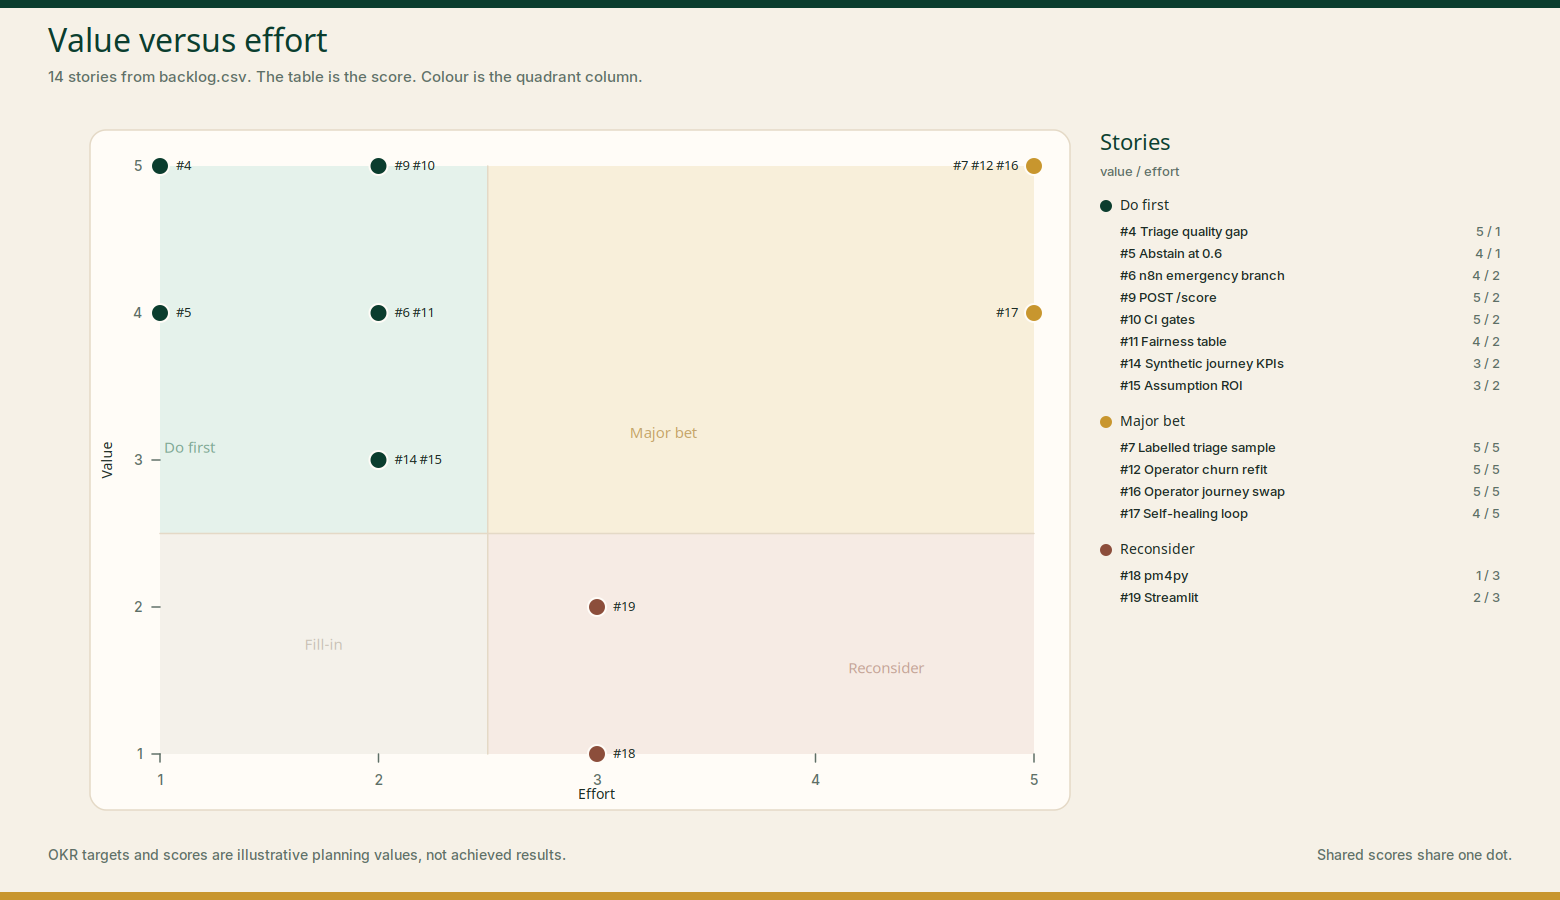
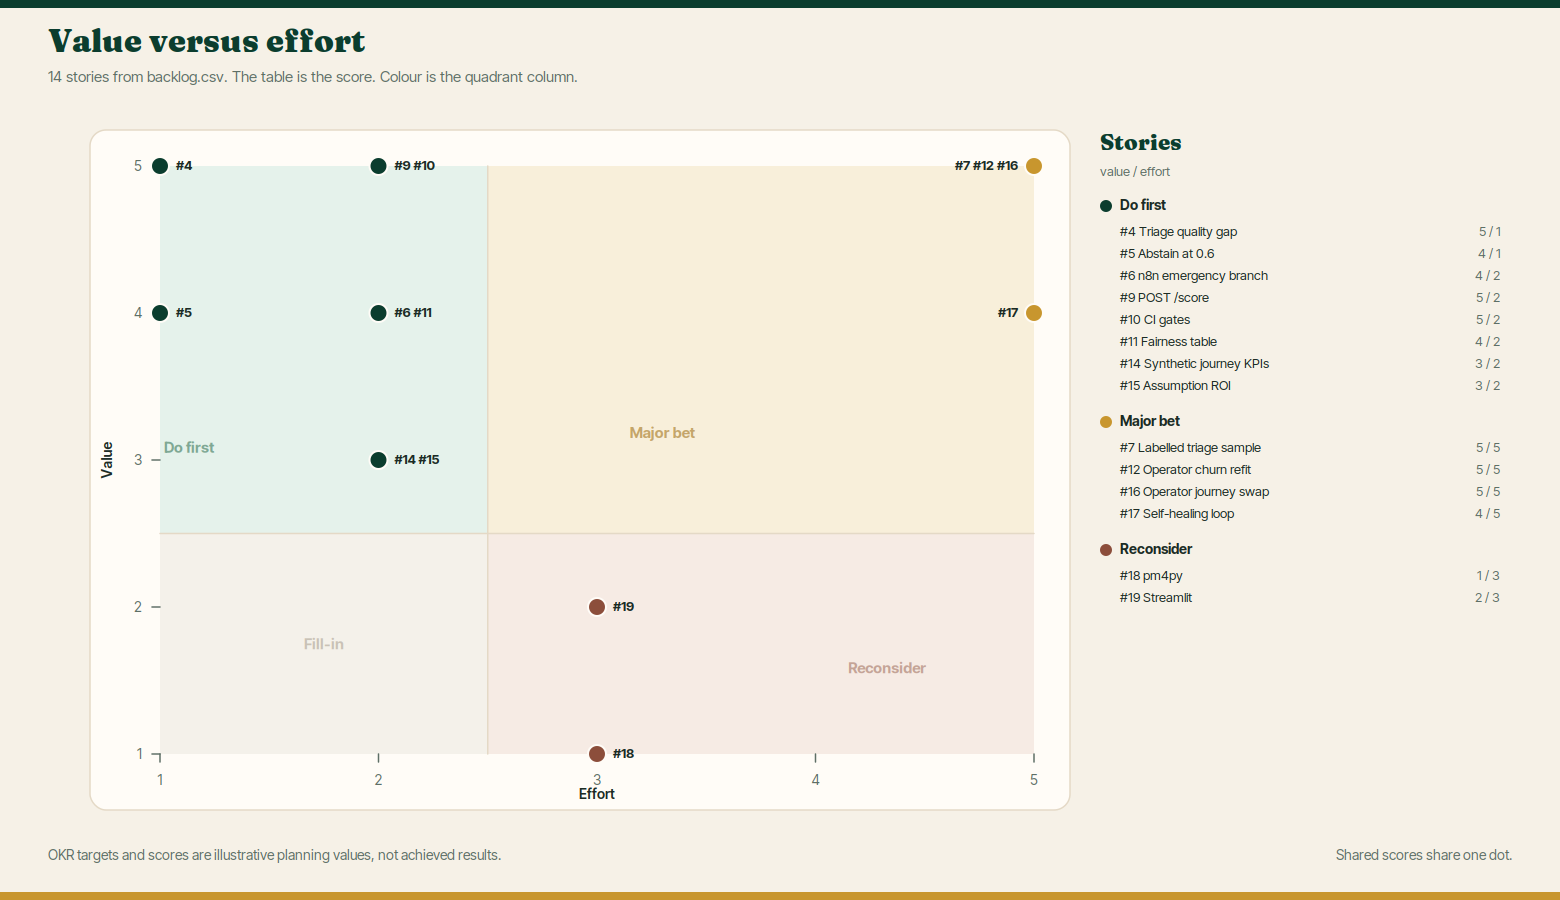
Use Fraunces Black and Inter Tight on the story figures
Install the faces where fontconfig can see them, and show the IBM holdout ROC-AUC and lift on the result panel.

diff --git a/scripts/render_story.py b/scripts/render_story.py
@@ -1,21 +1,58 @@
 #!/usr/bin/env python3
 """Draw the story figures in assets/ from backlog.csv and the README.
 
-Needs Pillow and CairoSVG, plus Fraunces and Inter Tight (downloaded on first run).
-Does not invent metrics. story_facts.py is the only source of labels and numbers.
+CairoSVG draws text with Cairo's select_font_face, which asks fontconfig for
+the family name and ignores @font-face. This script installs Fraunces Black
+and Inter Tight into ~/.fonts and refreshes the font cache before rasterizing.
+
+Needs Pillow, CairoSVG, fontTools, and fc-cache. story_facts.py is the only
+source of labels and numbers.
 """
 
+import shutil
+import subprocess
 import urllib.request
 from pathlib import Path
 
 import cairosvg
+from fontTools.ttLib import TTFont
 from PIL import Image, ImageFont
 
 import story_facts as facts
 
 ROOT = Path(__file__).resolve().parents[1]
 ASSETS = ROOT / "assets"
-FONT_DIR = Path("/tmp/fonts")
+FONT_SRC = Path("/tmp/digital-care-fontsrc")
+FONT_DIR = Path.home() / ".fonts" / "digital-care"
+
+# Logical face -> (installed filename, svg family, svg weight, source url).
+# Weight 400 stays regular in Cairo. Weight 700 selects the bold face.
+FONTS = {
+    "Fraunces": (
+        "Fraunces-Black.ttf",
+        "Fraunces",
+        "700",
+        "https://cdn.jsdelivr.net/fontsource/fonts/fraunces@5.2.5/latin-900-normal.ttf",
+    ),
+    "Inter": (
+        "InterTight-Regular.ttf",
+        "Inter Tight",
+        "400",
+        "https://cdn.jsdelivr.net/fontsource/fonts/inter-tight@5.2.5/latin-400-normal.ttf",
+    ),
+    "InterSemi": (
+        "InterTight-SemiBold.ttf",
+        "Inter Tight SemiBold",
+        "400",
+        "https://cdn.jsdelivr.net/fontsource/fonts/inter-tight@5.2.5/latin-600-normal.ttf",
+    ),
+    "InterBold": (
+        "InterTight-Bold.ttf",
+        "Inter Tight",
+        "700",
+        "https://cdn.jsdelivr.net/fontsource/fonts/inter-tight@5.2.5/latin-700-normal.ttf",
+    ),
+}
 
 DEEP = "#0B3D2E"
 DEEP_MID = "#1B6B4A"
@@ -29,25 +66,6 @@ LINE = "#E4D9C6"
 SOFT = "#E7F2EC"
 SOFT_GOLD = "#F8F1DE"
 PALE = "#F3EFE6"
-
-FONTS = {
-    "Fraunces": (
-        "fraunces-700.ttf",
-        "https://cdn.jsdelivr.net/fontsource/fonts/fraunces@5.2.5/latin-700-normal.ttf",
-    ),
-    "Inter": (
-        "intertight-500.ttf",
-        "https://cdn.jsdelivr.net/fontsource/fonts/inter-tight@5.2.5/latin-500-normal.ttf",
-    ),
-    "InterSemi": (
-        "intertight-600.ttf",
-        "https://cdn.jsdelivr.net/fontsource/fonts/inter-tight@5.2.5/latin-600-normal.ttf",
-    ),
-    "InterBold": (
-        "intertight-700.ttf",
-        "https://cdn.jsdelivr.net/fontsource/fonts/inter-tight@5.2.5/latin-700-normal.ttf",
-    ),
-}
 
 HORIZON_COLOR = {"NOW": DEEP, "NEXT": DEEP_MID, "LATER": GOLD}
 QUADRANT_FILL = {
@@ -67,14 +85,54 @@ DOT = {"do-first": DEEP, "major-bet": GOLD, "reconsider": "#8C4E3B"}
 _FACES = {}
 
 
+def rewrite_fraunces(source, dest):
+    """Publish Fraunces Black as family Fraunces, style Bold, so Cairo's bold lookup hits it."""
+    font = TTFont(source)
+    name = font["name"]
+    platforms = {(rec.platformID, rec.platEncID, rec.langID) for rec in name.names}
+    labels = {
+        1: "Fraunces",
+        2: "Bold",
+        4: "Fraunces Bold",
+        6: "Fraunces-Bold",
+        16: "Fraunces",
+        17: "Bold",
+    }
+    for platform, encoding, language in platforms:
+        for name_id, value in labels.items():
+            name.setName(value, name_id, platform, encoding, language)
+    os2 = font["OS/2"]
+    os2.usWeightClass = 900
+    os2.fsSelection = (os2.fsSelection | 0x20) & ~0x40
+    font["head"].macStyle |= 0x01
+    font.save(dest)
+
+
 def ensure_fonts():
+    FONT_SRC.mkdir(parents=True, exist_ok=True)
     FONT_DIR.mkdir(parents=True, exist_ok=True)
     paths = {}
-    for family, (filename, url) in FONTS.items():
-        path = FONT_DIR / filename
-        if not path.exists() or path.stat().st_size < 1000:
-            urllib.request.urlretrieve(url, path)
-        paths[family] = path
+    for key, (filename, _family, _weight, url) in FONTS.items():
+        source = FONT_SRC / filename
+        if not source.exists() or source.stat().st_size < 1000:
+            urllib.request.urlretrieve(url, source)
+        dest = FONT_DIR / filename
+        if key == "Fraunces":
+            rewrite_fraunces(source, dest)
+        elif not dest.exists() or dest.stat().st_size < 1000:
+            shutil.copy(source, dest)
+        paths[key] = dest
+    subprocess.run(["fc-cache", "-f", str(FONT_DIR)], check=True)
+    expected = {
+        "Fraunces:weight=bold": paths["Fraunces"],
+        "Inter Tight": paths["Inter"],
+        "Inter Tight:weight=bold": paths["InterBold"],
+        "Inter Tight SemiBold": paths["InterSemi"],
+    }
+    for query, path in expected.items():
+        got = subprocess.check_output(["fc-match", "-f", "%{file}", query], text=True).strip()
+        if Path(got).resolve() != path.resolve():
+            raise SystemExit(f"fontconfig matched {got} for {query}, expected {path}")
     return paths
 
 
@@ -154,16 +212,22 @@ class Svg:
         pts = " ".join(f"{x},{y}" for x, y in points)
         self.add(f'<polygon points="{pts}" fill="{fill}"/>')
 
+    def _font_attrs(self, family):
+        _filename, css_family, weight, _url = FONTS[family]
+        return css_family, weight
+
     def text(self, x, y, value, family, size, fill, anchor="start"):
         check_prose(value)
+        css_family, weight = self._font_attrs(family)
         self.add(
-            f'<text x="{x}" y="{y}" font-family="{family}" font-size="{size}" fill="{fill}" text-anchor="{anchor}">{esc(value)}</text>'
+            f'<text x="{x}" y="{y}" font-family="{css_family}" font-weight="{weight}" font-size="{size}" fill="{fill}" text-anchor="{anchor}">{esc(value)}</text>'
         )
 
     def center(self, x, y, value, family, size, fill):
         check_prose(value)
+        css_family, weight = self._font_attrs(family)
         self.add(
-            f'<text x="{x}" y="{y}" font-family="{family}" font-size="{size}" fill="{fill}" text-anchor="middle" dominant-baseline="central">{esc(value)}</text>'
+            f'<text x="{x}" y="{y}" font-family="{css_family}" font-weight="{weight}" font-size="{size}" fill="{fill}" text-anchor="middle" dominant-baseline="central">{esc(value)}</text>'
         )
 
     def block(self, x, y, lines, family, size, fill, lh, anchor="start"):
@@ -195,15 +259,10 @@ class Svg:
         self.rect(0, self.h - 8, self.w, 8, GOLD)
 
     def render(self):
-        faces = "\n".join(
-            f"@font-face {{ font-family: '{family}'; src: url('file://{path}'); }}"
-            for family, path in self.paths.items()
-        )
         body = "\n".join(self.parts)
         return (
             f'<?xml version="1.0" encoding="UTF-8"?>'
             f'<svg xmlns="http://www.w3.org/2000/svg" width="{self.w}" height="{self.h}" viewBox="0 0 {self.w} {self.h}">'
-            f"<style>{faces}</style>"
             f'<rect width="{self.w}" height="{self.h}" fill="{CREAM}"/>'
             f"{body}</svg>"
         )
@@ -289,11 +348,16 @@ def hero(paths):
 
     # Result
     x = cards[2]
-    svg.text(x + 28, 108, "RESULT", "InterBold", 13, GOLD)
-    svg.text(x + 28, 152, "Now, Next, Later", "Fraunces", 32, DEEP)
+    svg.text(x + 28, 100, "RESULT", "InterBold", 13, GOLD)
+    svg.text(x + 28, 136, "Now, Next, Later", "Fraunces", 28, DEEP)
+    for index, (value, label) in enumerate(facts.HERO_STATS):
+        sx = x + 28 + index * 214
+        svg.text(sx, 186, value, "Fraunces", 40, DEEP)
+        svg.text(sx, 208, label, "InterSemi", 13, MUTED)
+    svg.text(x + 28, 228, "IBM holdout", "Inter", 12, MUTED)
     lanes = facts.HORIZONS
-    lane_y = 186
-    lane_h = 156
+    lane_y = 248
+    lane_h = 142
     for index, horizon in enumerate(lanes):
         y = lane_y + index * (lane_h + 18)
         color = HORIZON_COLOR[horizon["key"]]
@@ -406,7 +470,7 @@ def quadrant(paths):
 
     svg.center((inner_x + xp(5)) / 2, plot_y + plot_h - 16, "Effort", "InterSemi", 14, INK)
     svg.add(
-        f'<text x="{plot_x + 22}" y="{(inner_y + yp(1)) / 2}" font-family="InterSemi" font-size="14" fill="{INK}" text-anchor="middle" transform="rotate(-90 {plot_x + 22} {(inner_y + yp(1)) / 2})">Value</text>'
+        f'<text x="{plot_x + 22}" y="{(inner_y + yp(1)) / 2}" font-family="Inter Tight SemiBold" font-weight="400" font-size="14" fill="{INK}" text-anchor="middle" transform="rotate(-90 {plot_x + 22} {(inner_y + yp(1)) / 2})">Value</text>'
     )
 
     groups = {}

diff --git a/tests/test_assets.py b/tests/test_assets.py
@@ -30,6 +30,8 @@ def visible_strings(facts):
     found = [facts.CAVEAT, facts.QUESTION, facts.QUESTION_TAIL, *facts.SERIES]
     found.extend(facts.SHORT.values())
     found.extend(facts.STATUS.values())
+    for value, label in facts.HERO_STATS:
+        found.extend((value, label))
     for horizon in facts.HORIZONS:
         found.append(horizon["title"])
         found.extend(horizon["lines"])

diff --git a/scripts/story_facts.py b/scripts/story_facts.py
@@ -59,6 +59,14 @@ STATUS = {
     19: "Declined in the ROI README",
 }
 
+# Large type on the result panel. These are the leading digits of the IBM
+# holdout figures printed in full on the Next lane: ROC-AUC 0.846001 and
+# top-decile lift 2.806733.
+HERO_STATS = (
+    ("0.846", "ROC-AUC"),
+    ("2.8x", "top-decile lift"),
+)
+
 HORIZONS = [
     {
         "key": "NOW",
